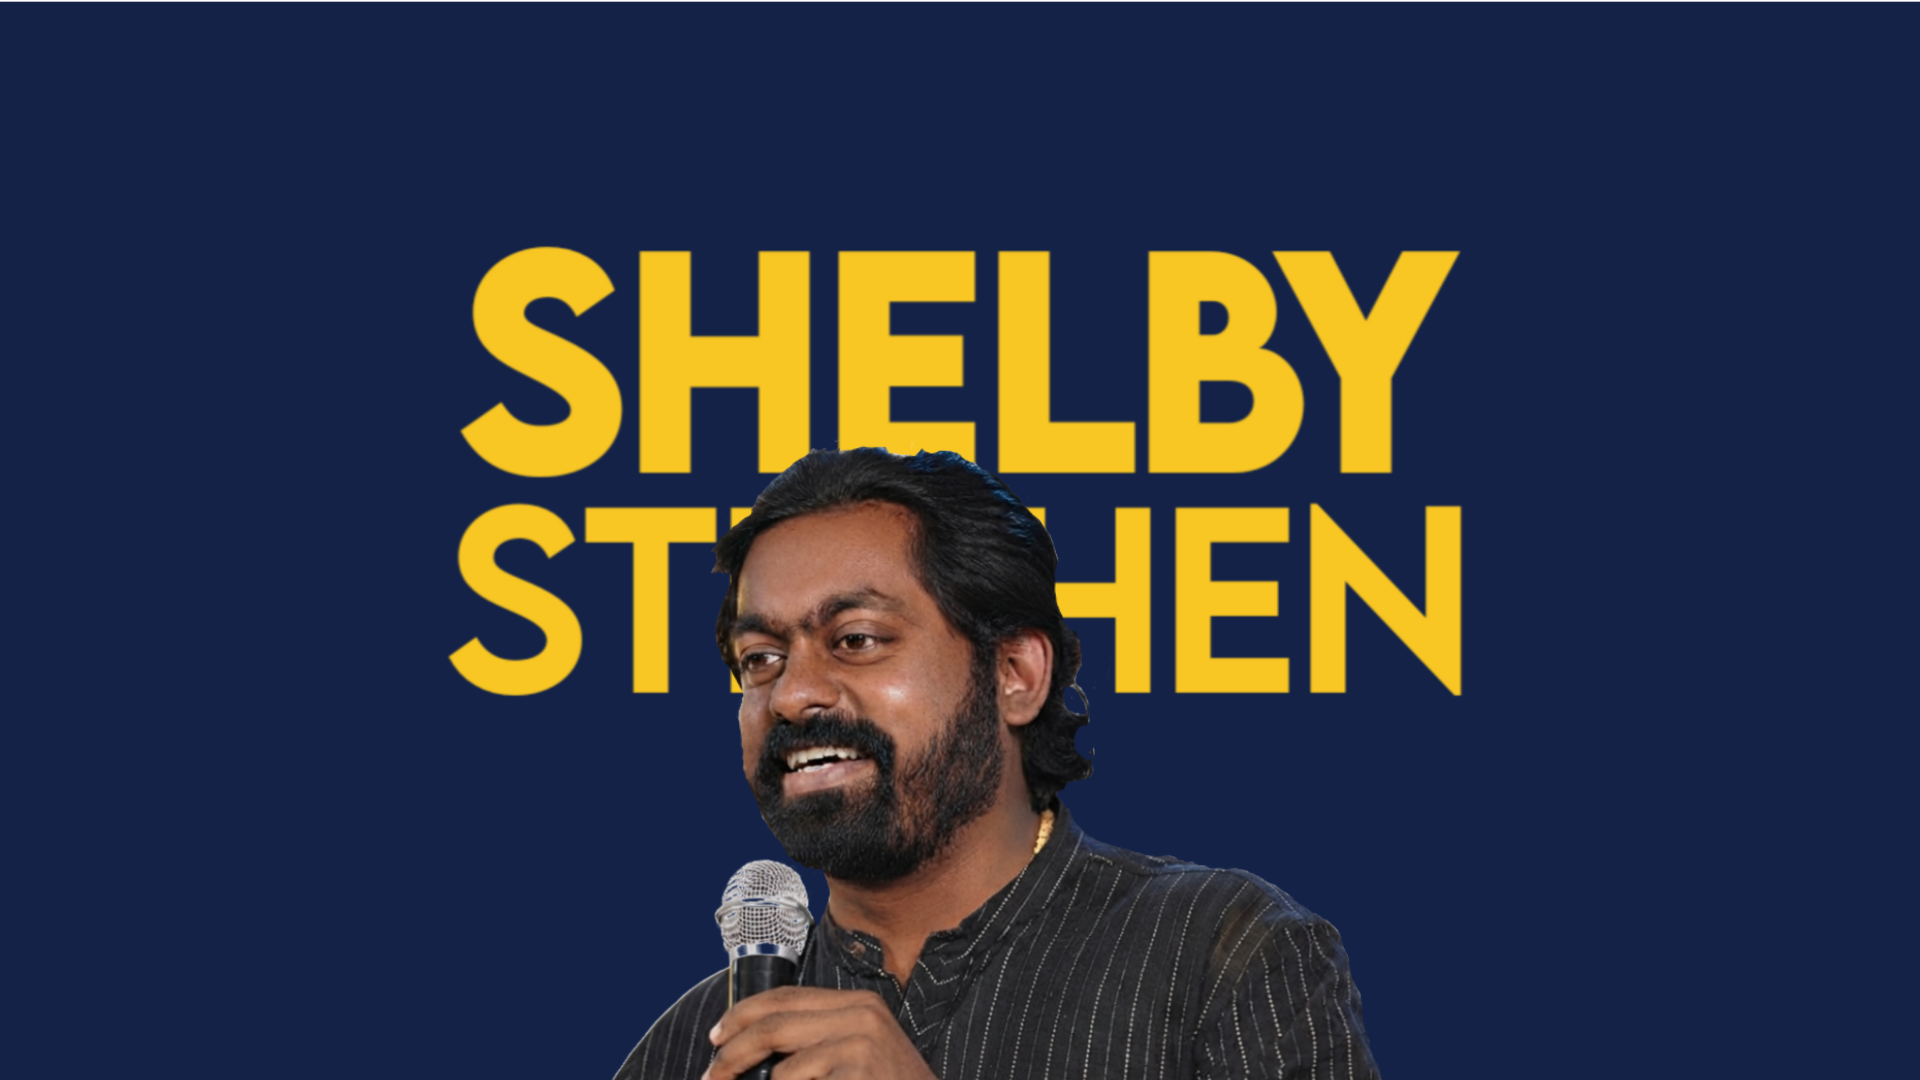
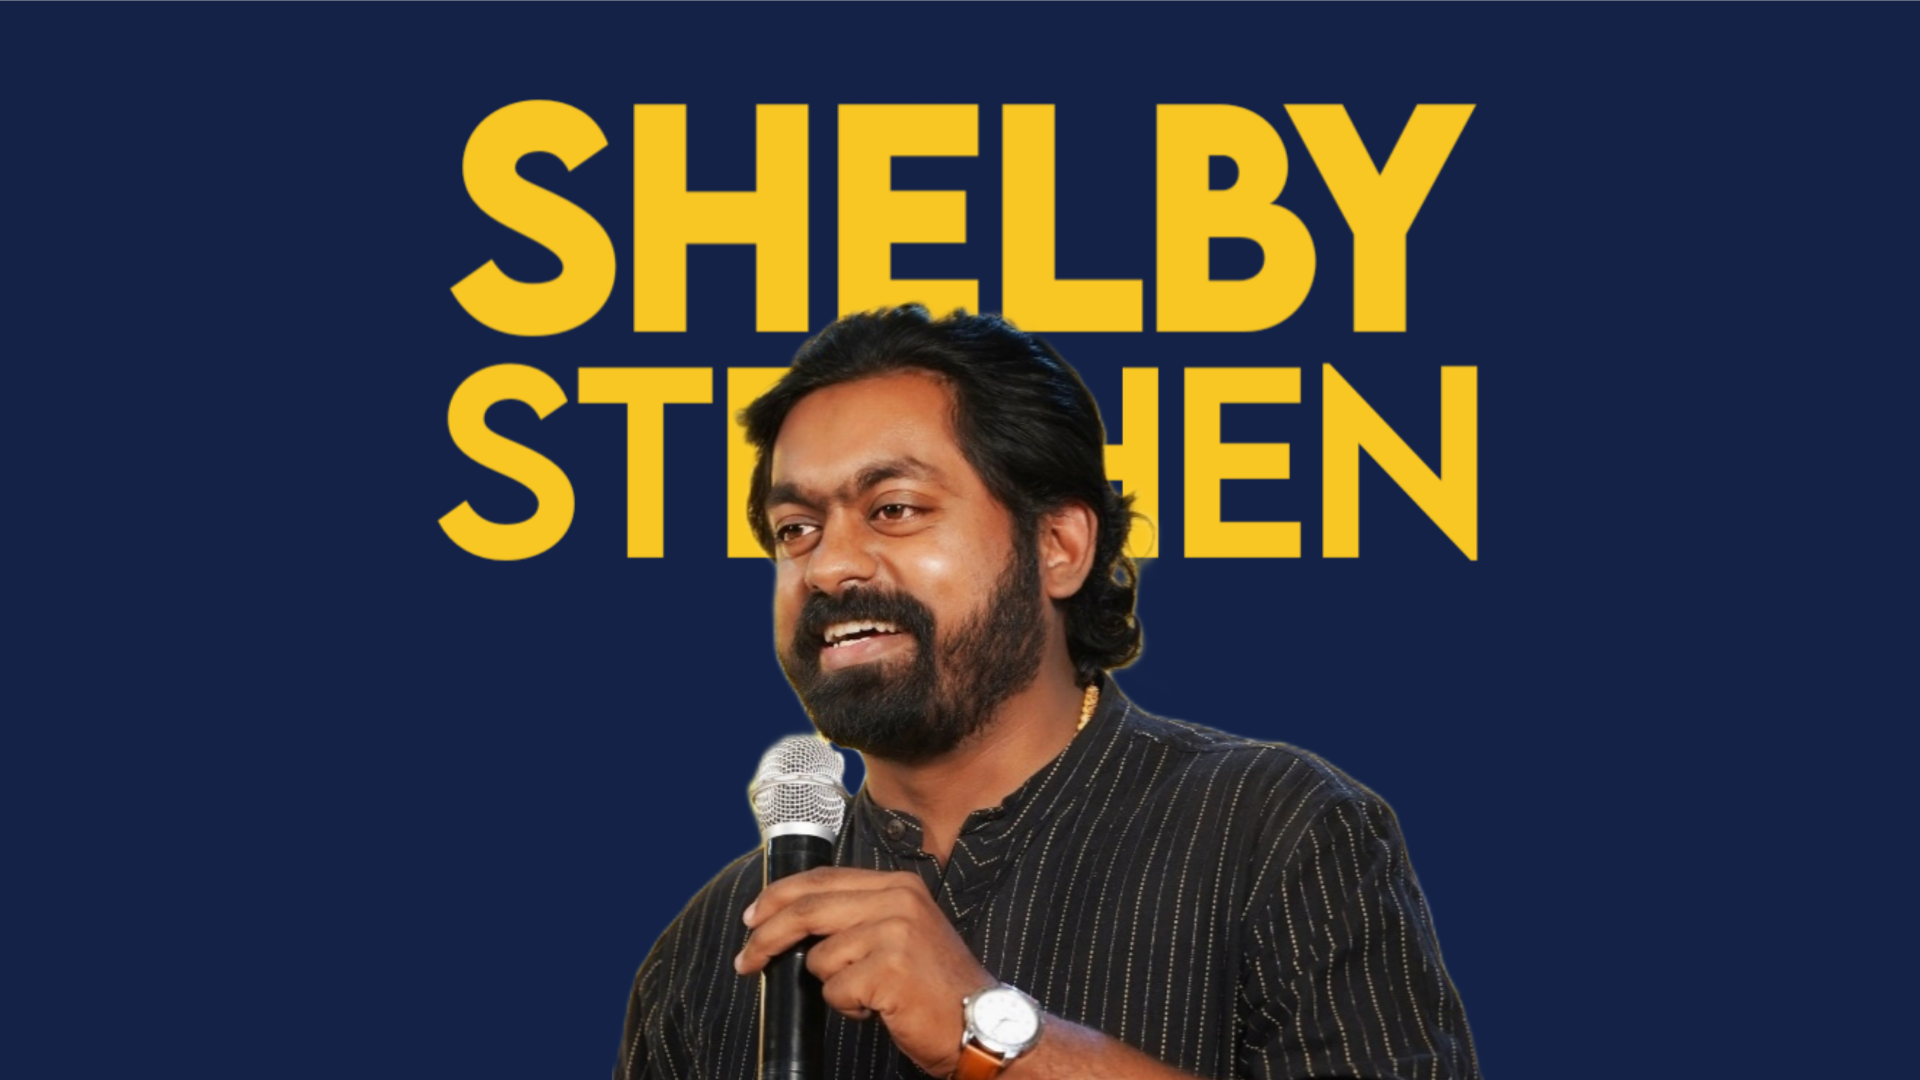
Hero: picture element with portrait.png for phones, updated hero-desktop.png

Changed region(s): [[0.2188, 0.0917, 0.7812, 1.0]]

diff --git a/index.html b/index.html
@@ -18,8 +18,10 @@
   <main>
     <!-- SCREEN 1: full-screen hero photo. -->
     <section class="screen hero" id="hero">
-      <!-- TODO: portrait phone version. Wrap this img in <picture> and add <source media="(max-width: 760px)" srcset="images/hero-mobile.jpg"> above it. -->
-      <img src="images/hero-desktop.png" alt="Shelby Stephen" width="1920" height="1080" fetchpriority="high">
+      <picture>
+        <source media="(max-width: 760px)" srcset="images/portrait.png" width="1080" height="1351">
+        <img src="images/hero-desktop.png" alt="Shelby Stephen" width="1920" height="1080" fetchpriority="high">
+      </picture>
     </section>
 
     <!-- SCREEN 2: picture, headline, tagline, description. Coded separately. -->

diff --git a/css/home.css b/css/home.css
@@ -8,7 +8,13 @@
 /* Projects */
 .work{padding:96px 0 88px;background:var(--bg)}
 .screen.hero{padding:0;gap:0;display:block;height:calc(100svh - var(--nav-h,70px));min-height:0;overflow:hidden}
+.hero picture{display:block;height:100%}
 .hero img{display:block;width:100%;height:100%;object-fit:cover;object-position:center bottom}
+@media (max-width:760px){
+  .screen.hero{height:auto;overflow:visible}
+  .hero picture{height:auto}
+  .hero img{height:auto;object-fit:initial}
+}
 .work .wrap{text-align:left}
 .work h2{font-family:"Lemon Milk","Bodoni Moda",serif;font-size:clamp(2.5rem,5vw,3.75rem);line-height:1.1;text-align:left}
 .work-intro{margin:12px 0 40px;color:var(--muted);font-size:1.05rem}
